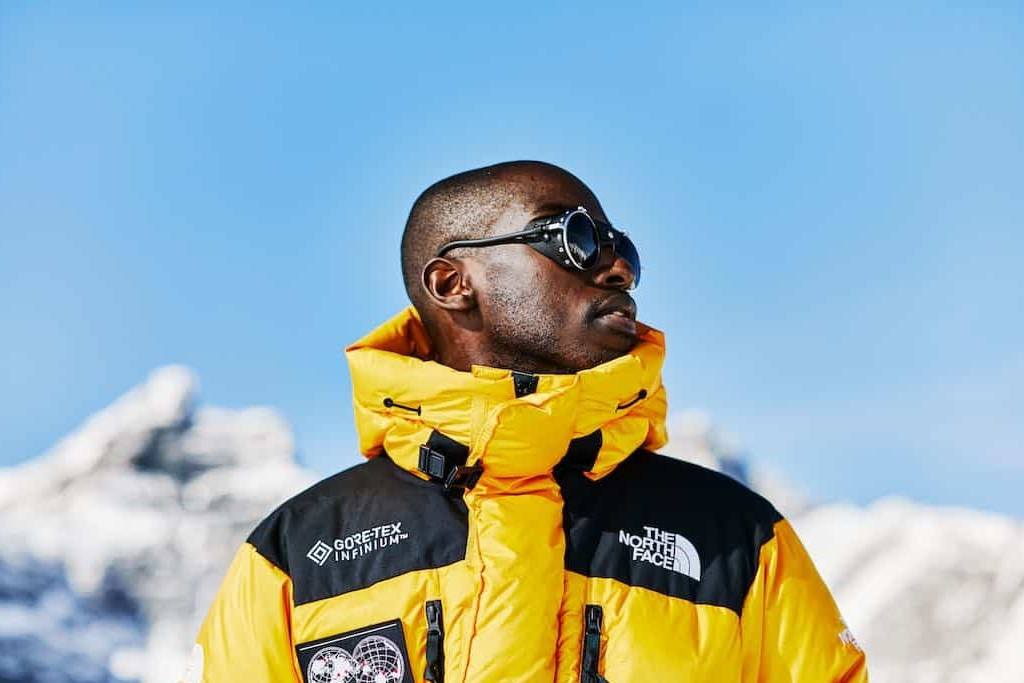
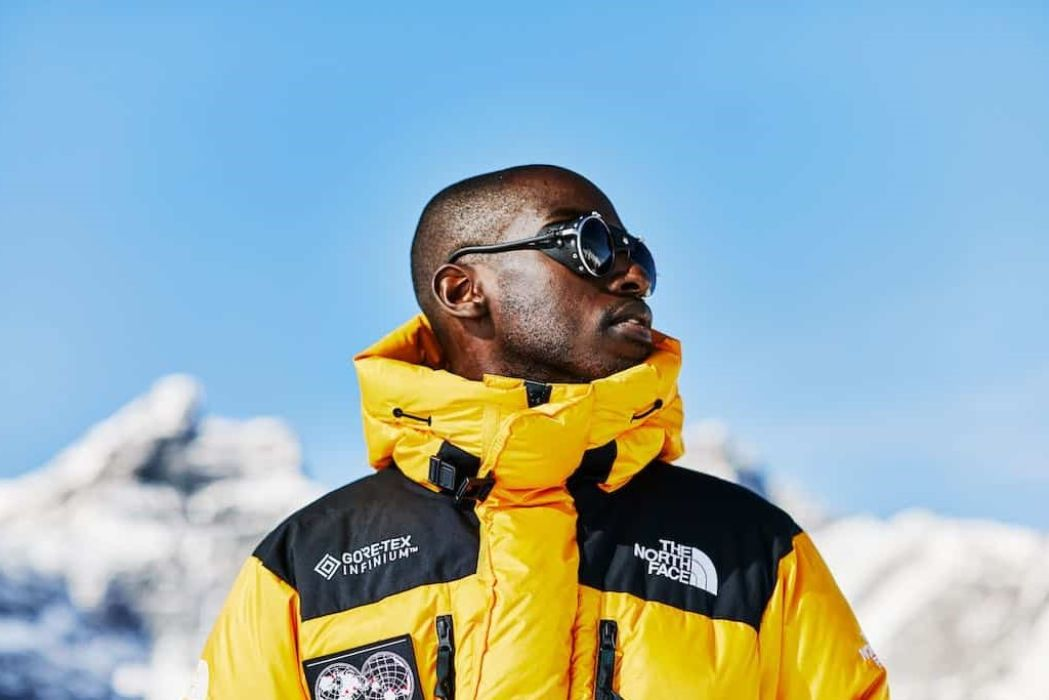
imagenes optimizadas

diff --git a/pages/nosotros.html b/pages/nosotros.html
@@ -38,7 +38,7 @@
             <p>The North Face empezó en 1966 siendo una pequeña tienda de productos para montañismo. Dos años después, en 1968, dimos el salto a crear nuestros propios diseños para ropa y accesorios de deportes al aire libre. Fue entonces cuando realmente se fundó la marca.</p>
         </div>
         <div class="img-contain">
-            <img src="../multimedia/imagenes/logo-ice.jpg" alt="un hombre con nuestra indumentaria escalando una pared de hielo">
+            <img src="../multimedia/imagenes/publicidad/logo-ice.jpg" alt="un hombre con nuestra indumentaria escalando una pared de hielo">
         </div>
     </main>
     <footer>

diff --git a/pages/indumentaria-mujer.html b/pages/indumentaria-mujer.html
@@ -25,8 +25,8 @@
         </nav>
     </header>
     <main>
-        <div class="img-contain">
-            <img src="../multimedia/imagenes/fondo-kend.webp" alt="modelo con lentes, capucha y una campera marron con el logo chico en blanco">
+        <div class="img-contain img1">
+            <img src="../multimedia/imagenes/publicidad/fondo-kend.jpg" alt="modelo con lentes, capucha y una campera marron con el logo chico en blanco">
             <h1 class="indumentaria">Indumentaria Mujer</h1>
         </div>
         <h3>Camperas</h3>

diff --git a/pages/indumentaria-hombre.html b/pages/indumentaria-hombre.html
@@ -25,8 +25,8 @@
         </nav>
     </header>
     <main>
-        <div class="img-contain">
-            <img src="../multimedia/imagenes/fondo-4.jpg" alt="modelo con lente y campera amarilla y negra con una montaña nevada de fondo">
+        <div class="img-contain img1">
+            <img src="../multimedia/imagenes/publicidad/fondo-4.jpg" alt="modelo con lente y campera amarilla y negra con una montaña nevada de fondo">
             <h1 class="indumentaria">Indumentaria Hombre</h1>
         </div>
         <h3>Camperas</h3>

diff --git a/pages/contactos.html b/pages/contactos.html
@@ -75,7 +75,7 @@
                 </form>
             </div>
             <div class="img-contain">
-            <img src="../multimedia/imagenes/publi-contactos.jpg" alt="logo a la izquierda y a la derecha una montaña">
+            <img src="../multimedia/imagenes/publicidad/publi-contactos.jpg" alt="logo a la izquierda y a la derecha una montaña">
             </div>
  
     </main>

diff --git a/scss/_contain.scss b/scss/_contain.scss
@@ -3,7 +3,16 @@
     height: auto;
     img {
       width: 100%;
-      height: 100%;
-      object-fit: contain;
+      height: 700px;
+      object-fit: cover;
+    }
+  }
+  .img1{
+    width: 100%;
+    height: 600px;
+    object-fit: cover;
+    img{
+      width: 100%;
+    height: 500px;
     }
   }

diff --git a/css/style.css b/css/style.css
@@ -30,8 +30,18 @@ html {
 }
 .img-contain img {
   width: 100%;
-  height: 100%;
-  object-fit: contain;
+  height: 700px;
+  object-fit: cover;
+}
+
+.img1 {
+  width: 100%;
+  height: 600px;
+  object-fit: cover;
+}
+.img1 img {
+  width: 100%;
+  height: 500px;
 }
 
 header {
